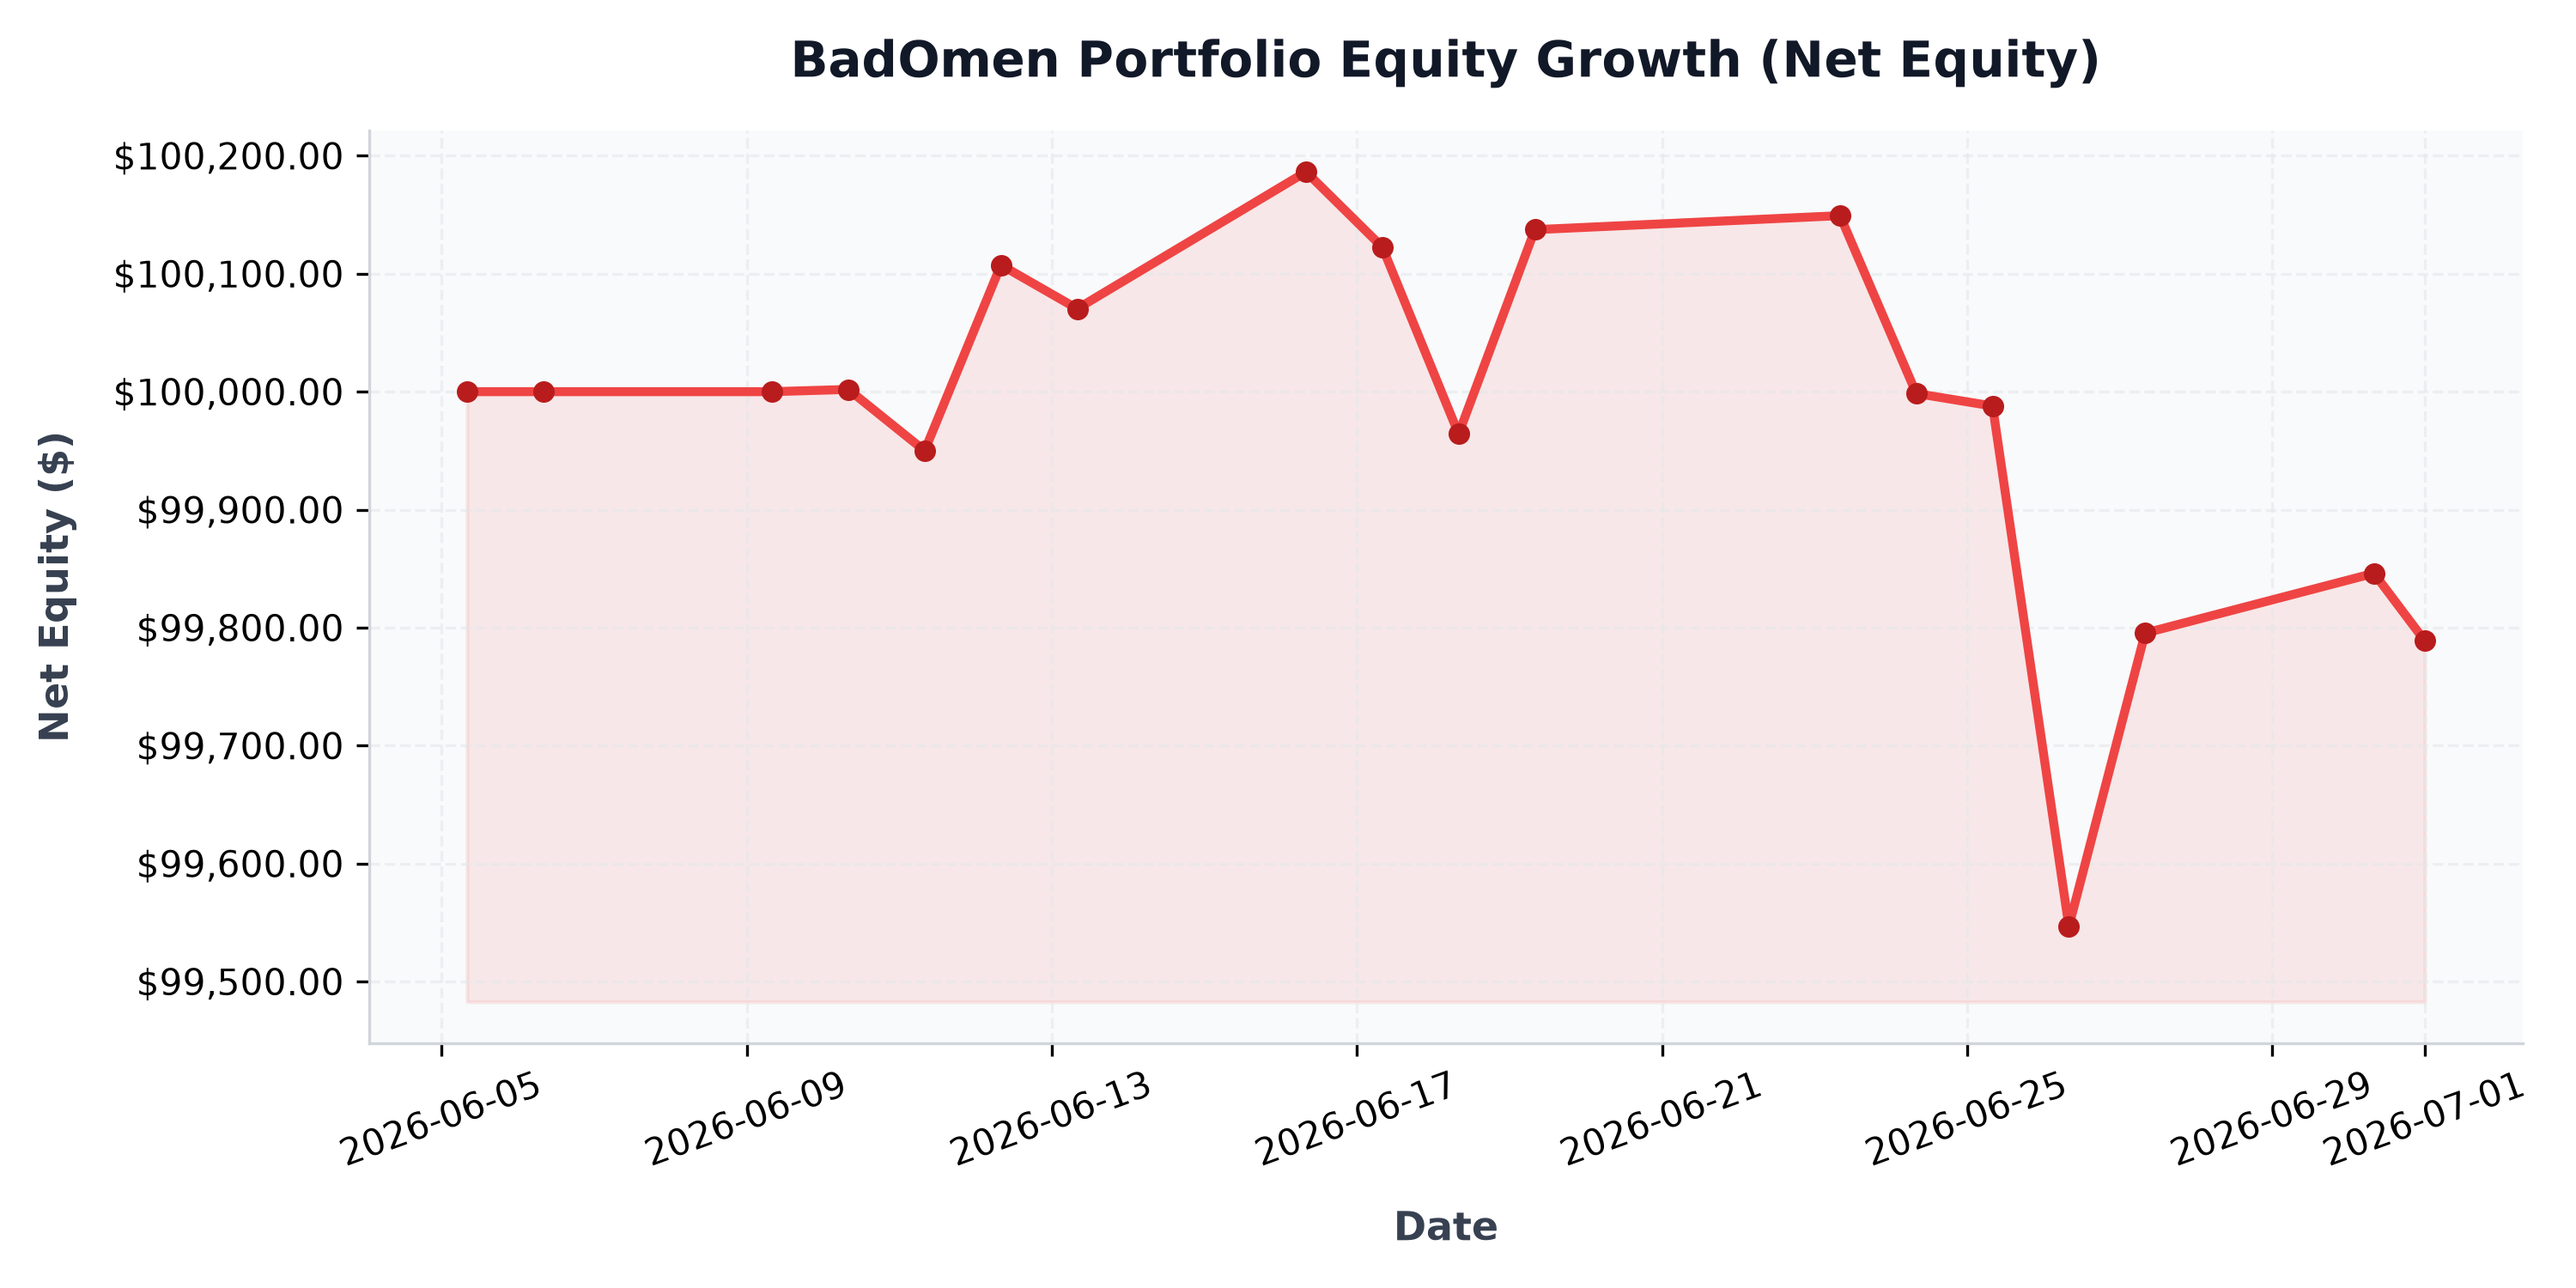
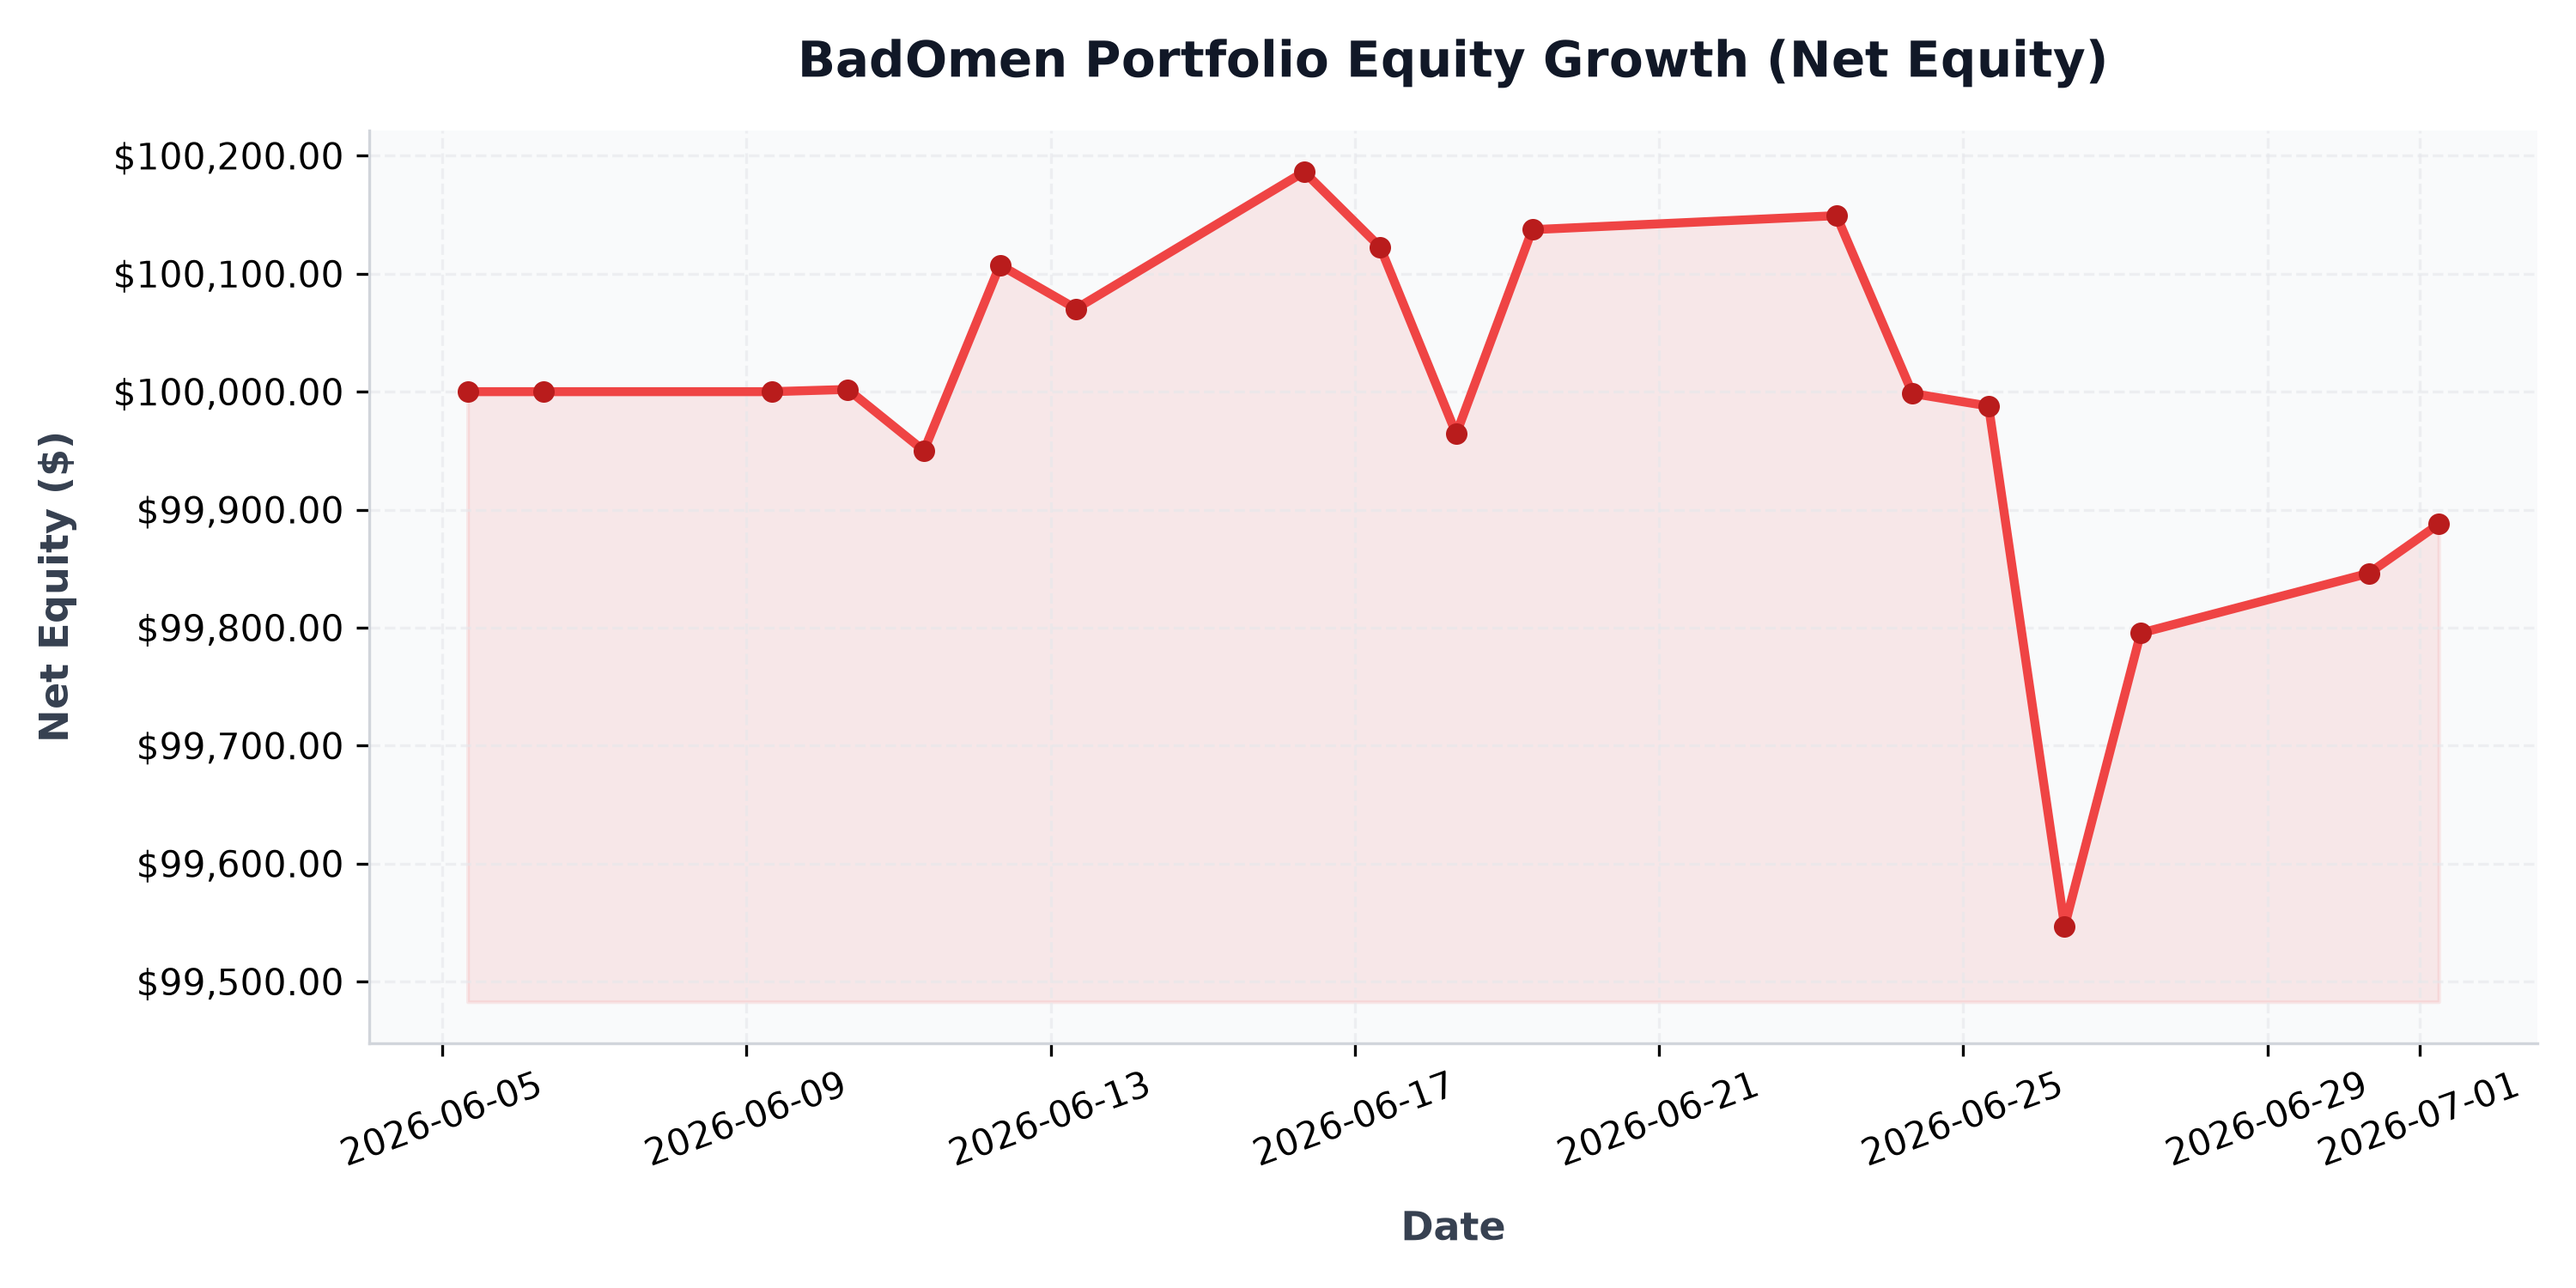
auto: daily portfolio status update - 2026-07-01 06:05:13

diff --git a/src/content/posts/portfolio-performance.md b/src/content/posts/portfolio-performance.md
@@ -1,6 +1,6 @@
 ---
 title: "BadOmen Algorithmic Portfolio Performance & PnL Report"
-pubDatetime: 2026-07-01T00:00:14.888986+08:00
+pubDatetime: 2026-07-01T06:05:13.362963+08:00
 description: "Live performance metrics, active holdings, and historic equity curve for the BadOmen automated paper trading portfolio."
 featured: true
 draft: false
@@ -16,11 +16,11 @@ Welcome to the live performance dashboard for **BadOmen**, our automated algorit
 ## 📊 Portfolio Summary
 | Performance Metric | Value | description |
 | :--- | :--- | :--- |
-| **Net Portfolio Equity** | **$99,788.75** | Total current liquidation value of cash and stock holdings |
-| **Total Unrealized P&L** | 🔴 **$-200.66** (-0.20%) | Total return of current open holdings |
+| **Net Portfolio Equity** | **$99,887.71** | Total current liquidation value of cash and stock holdings |
+| **Total Unrealized P&L** | 🔴 **$-100.94** (-0.10%) | Total return of current open holdings |
 | **Cash Balance** | $82,548.63 | Idle reserve currency available for limit orders |
-| **Buying Power** | $371,767.64 | Margin-backed buying power for entry allocations |
-| **Report Updated** | `2026-07-01 00:00:14 (SGT)` | Timestamp of daily execution and sync run |
+| **Buying Power** | $372,044.75 | Margin-backed buying power for entry allocations |
+| **Report Updated** | `2026-07-01 06:05:13 (SGT)` | Timestamp of daily execution and sync run |
 
 ## 📈 Net Equity Growth Curve
 The chart below illustrates the historical performance of the account starting from our baseline capital funding of $100,000.00.
@@ -35,22 +35,22 @@ The chart below illustrates the exposure of our currently held active positions 
 ## 💼 Current Position Holdings
 | Ticker | Industry | Shares Owned | Average Entry Cost | Current Price | Unrealized P&L | Return (%) |
 | :--- | :--- | :--- | :--- | :--- | :--- | :--- |
-| **AN** | Auto & Truck Dealerships | 5 | $188.51 | $185.53 | 🔴 $-14.89 | -1.58% |
-| **AVGO** | Semiconductors | 1 | $385.71 | $376.18 | 🔴 $-9.53 | -2.47% |
-| **CELH** | Beverages - Non-Alcoholic | 33 | $29.71 | $29.34 | 🔴 $-12.30 | -1.25% |
-| **GDDY** | Software - Infrastructure | 12 | $76.21 | $84.10 | 🟢 +$94.68 | +10.35% |
-| **GGAL** | Banks - Regional | 17 | $56.04 | $51.76 | 🔴 $-72.75 | -7.64% |
-| **GPI** | Auto & Truck Dealerships | 3 | $316.15 | $290.26 | 🔴 $-77.67 | -8.19% |
-| **ITRI** | Scientific & Technical Instruments | 12 | $81.80 | $85.67 | 🟢 +$46.44 | +4.73% |
-| **META** | Internet Content & Information | 1 | $568.17 | $557.30 | 🔴 $-10.87 | -1.91% |
-| **NU** | Banks - Regional | 85 | $11.60 | $13.19 | 🟢 +$134.85 | +13.68% |
-| **ON** | Semiconductors | 10 | $90.45 | $93.28 | 🟢 +$28.25 | +3.12% |
-| **ORCL** | Software - Infrastructure | 5 | $181.95 | $145.44 | 🔴 $-182.55 | -20.07% |
-| **PATH** | Software - Infrastructure | 187 | $10.42 | $10.64 | 🟢 +$41.34 | +2.12% |
-| **QCOM** | Semiconductors | 10 | $201.80 | $187.32 | 🔴 $-144.75 | -7.17% |
-| **SMCI** | Computer Hardware | 33 | $29.25 | $29.45 | 🟢 +$6.76 | +0.70% |
-| **WEN** | Restaurants | 257 | $8.02 | $8.03 | 🟢 +$0.33 | +0.02% |
-| **ZG** | Internet Content & Information | 31 | $31.35 | $30.45 | 🔴 $-28.00 | -2.88% |
+| **AN** | Auto & Truck Dealerships | 5 | $188.51 | $185.79 | 🔴 $-13.59 | -1.44% |
+| **AVGO** | Semiconductors | 1 | $385.71 | $377.55 | 🔴 $-8.16 | -2.12% |
+| **CELH** | Beverages - Non-Alcoholic | 33 | $29.71 | $29.32 | 🔴 $-12.85 | -1.31% |
+| **GDDY** | Software - Infrastructure | 12 | $76.21 | $83.38 | 🟢 +$86.04 | +9.41% |
+| **GGAL** | Banks - Regional | 17 | $56.04 | $50.03 | 🔴 $-102.16 | -10.72% |
+| **GPI** | Auto & Truck Dealerships | 3 | $316.15 | $291.17 | 🔴 $-74.94 | -7.90% |
+| **ITRI** | Scientific & Technical Instruments | 12 | $81.80 | $86.53 | 🟢 +$56.76 | +5.78% |
+| **META** | Internet Content & Information | 1 | $568.17 | $562.80 | 🔴 $-5.37 | -0.95% |
+| **NU** | Banks - Regional | 85 | $11.60 | $13.34 | 🟢 +$148.02 | +15.01% |
+| **ON** | Semiconductors | 10 | $90.45 | $94.99 | 🟢 +$45.35 | +5.01% |
+| **ORCL** | Software - Infrastructure | 5 | $181.95 | $146.59 | 🔴 $-176.80 | -19.43% |
+| **PATH** | Software - Infrastructure | 187 | $10.42 | $10.89 | 🟢 +$87.83 | +4.51% |
+| **QCOM** | Semiconductors | 10 | $201.80 | $185.40 | 🔴 $-164.00 | -8.13% |
+| **SMCI** | Computer Hardware | 33 | $29.25 | $29.36 | 🟢 +$3.63 | +0.38% |
+| **WEN** | Restaurants | 257 | $8.02 | $8.19 | 🟢 +$42.73 | +2.07% |
+| **ZG** | Internet Content & Information | 31 | $31.35 | $30.92 | 🔴 $-13.43 | -1.38% |
 
 ## 🔴 Recent Realized Trades
 | Ticker | Shares Sold | Entry Price | Exit Price | Strategy Trigger | Realized Return | Exit Date |
